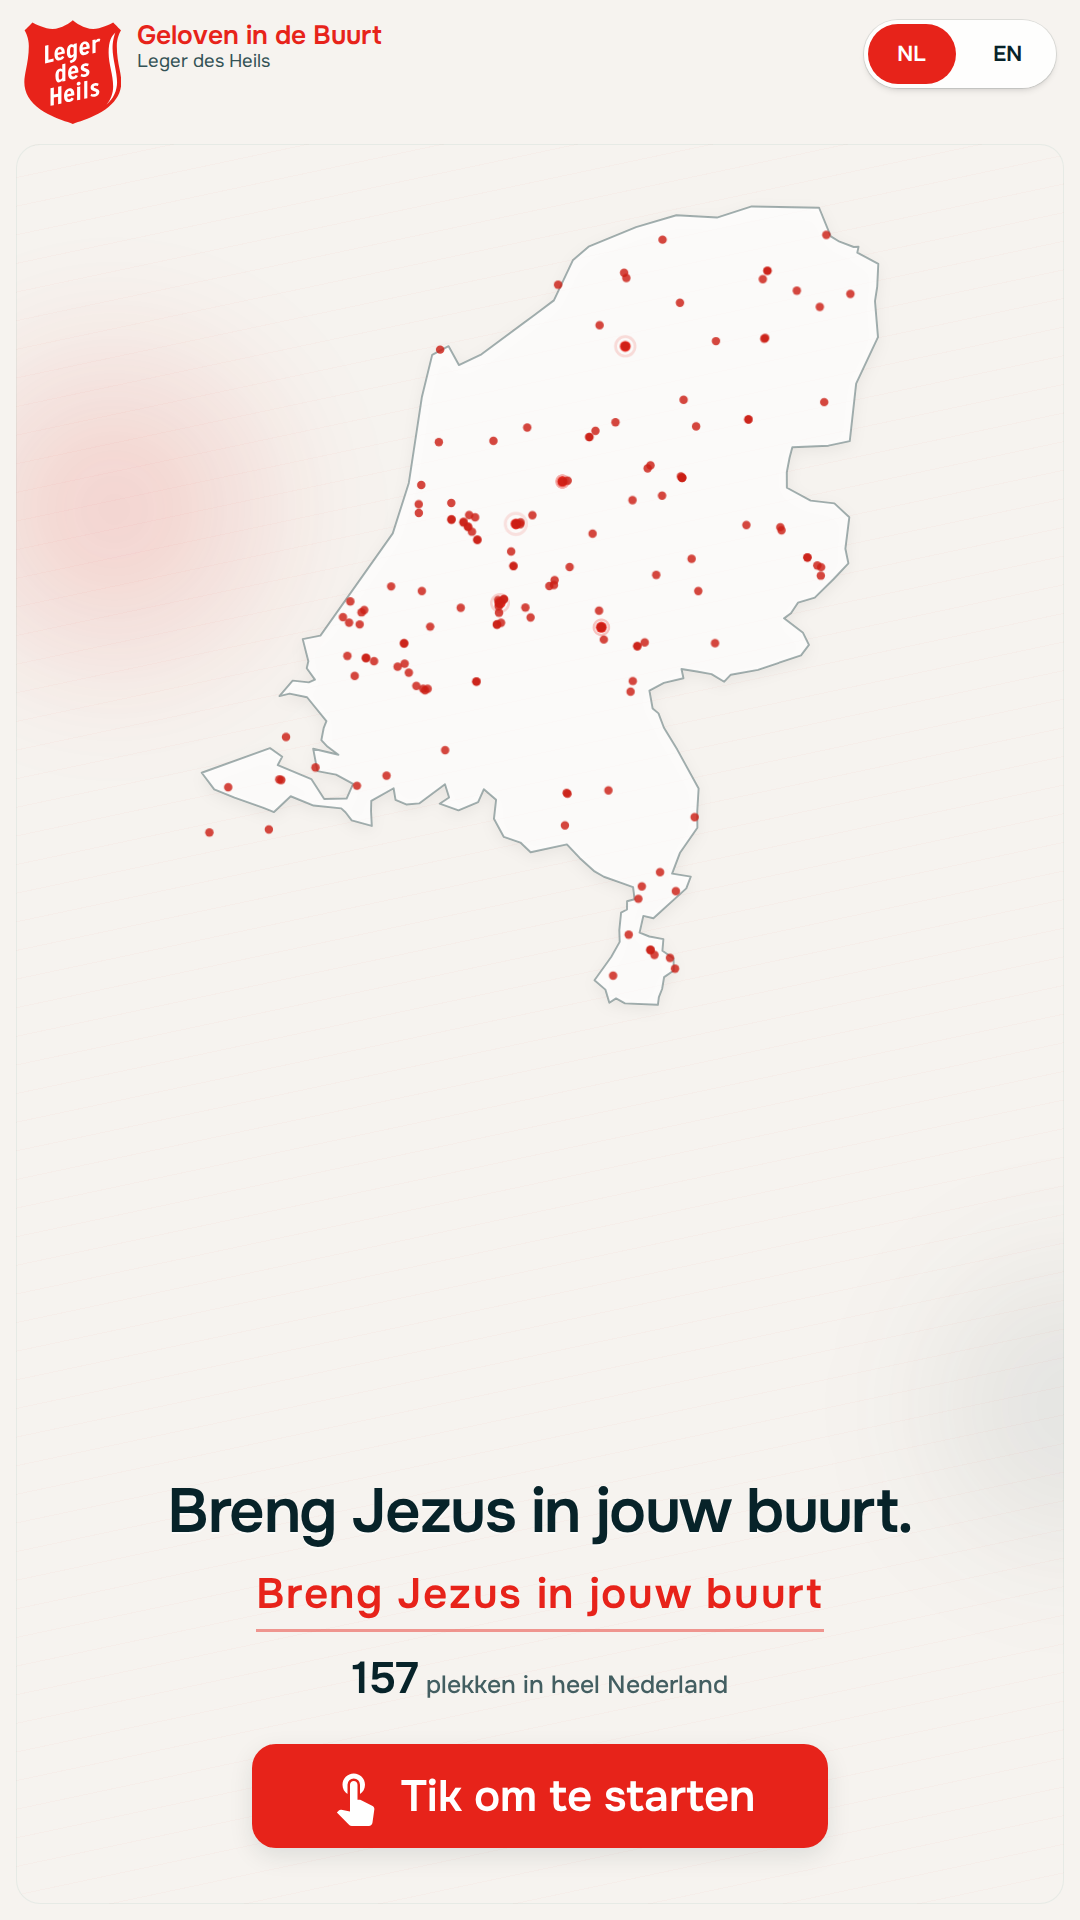
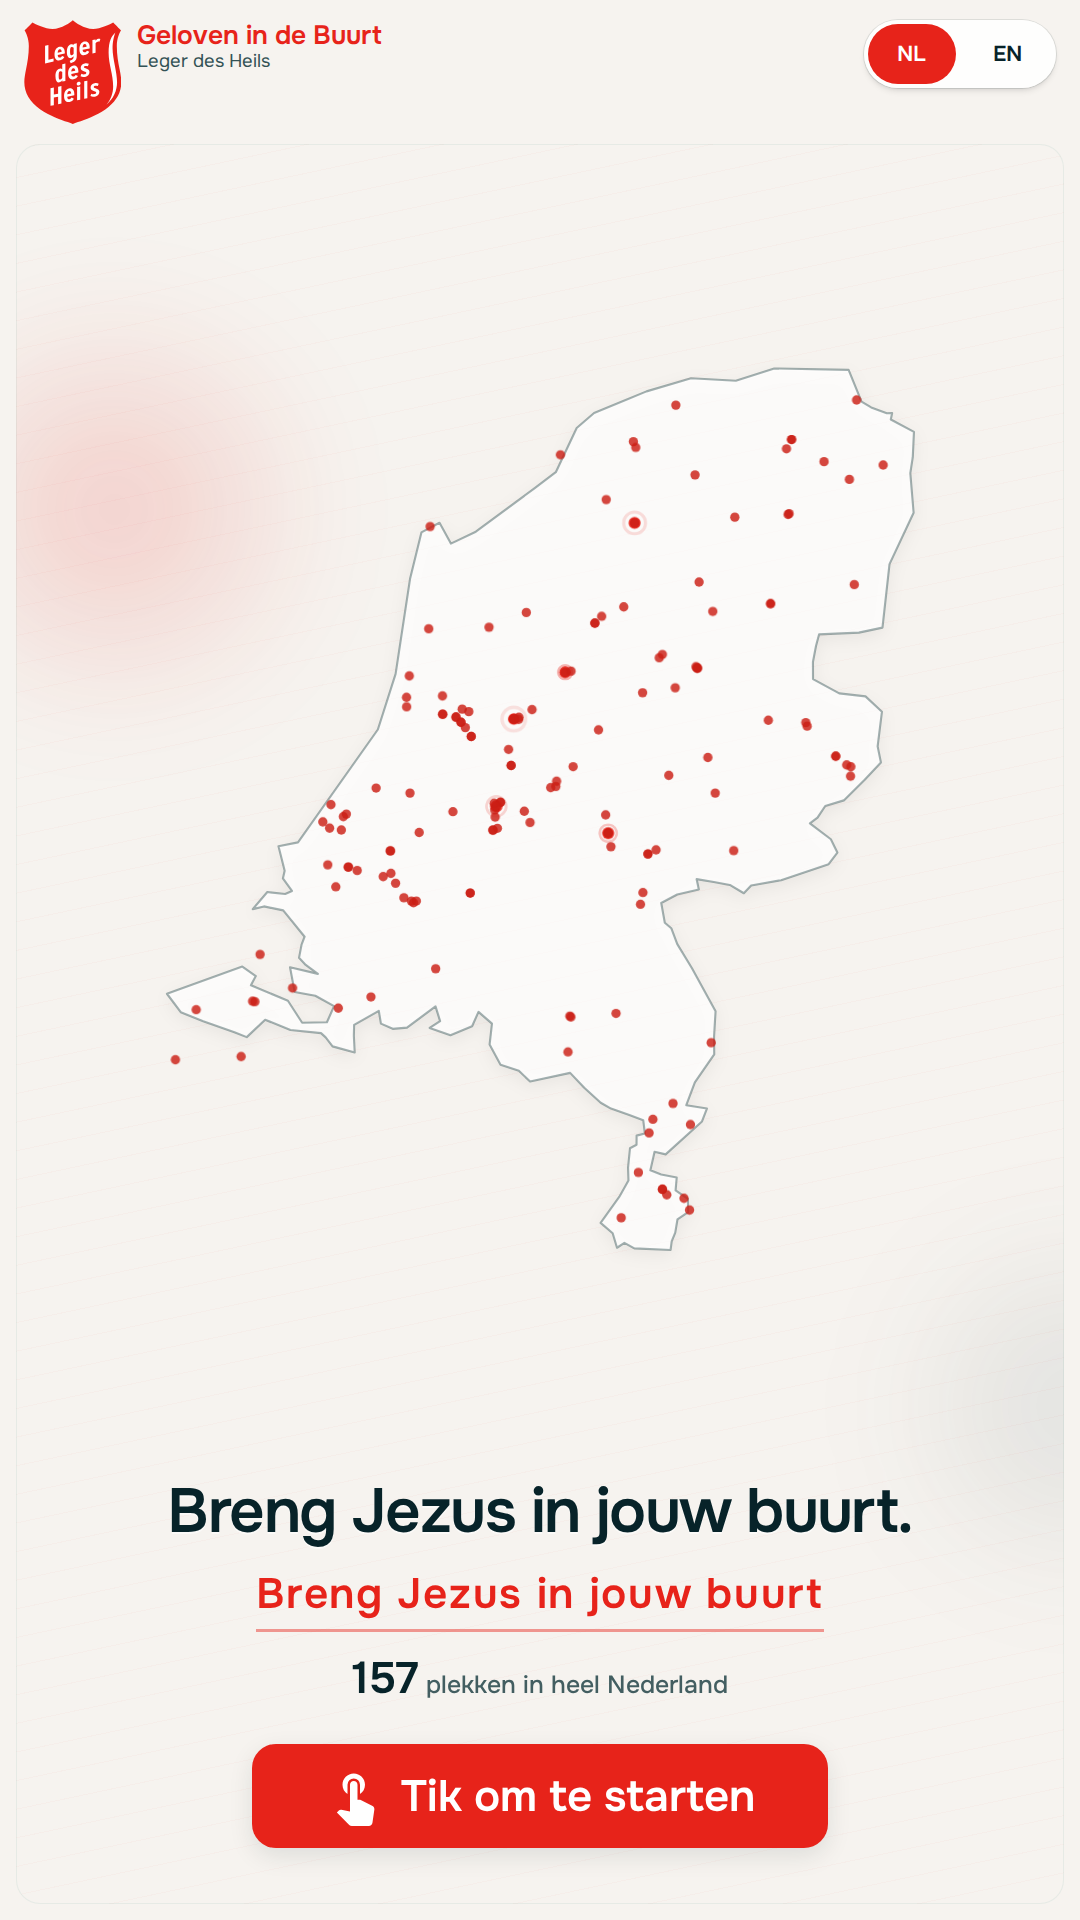
Stand attract: 1fr map row, auto copy, no map-text gap
Let the map grid row absorb remaining height with SVG at 100% meet;
size copy row to content only. Map ~90% card width on 1080×1920.

diff --git a/src/pages/buurt/buurt-kiosk.css b/src/pages/buurt/buurt-kiosk.css
@@ -546,25 +546,39 @@
 @media (min-width: 600px) and (min-height: 900px) {
   .kiosk-attract {
     display: grid;
-    grid-template-rows: minmax(0, 52%) minmax(0, 1fr);
+    grid-template-rows: minmax(0, 1fr) auto;
     grid-template-columns: 1fr;
+    row-gap: 0;
+    align-content: stretch;
   }
 
   .kiosk-attract-map-panel {
     flex: none;
     max-height: none;
     min-height: 0;
+    height: auto;
+    padding: 0.25rem 5% 0;
+    display: flex;
+    flex-direction: column;
+    align-items: stretch;
+  }
+
+  .kiosk-attract-map-svg {
+    flex: 1 1 auto;
+    min-height: 0;
+    width: 100%;
     height: 100%;
-    padding: 0.5rem 1.25rem 0;
+    max-width: 90%;
+    margin-inline: auto;
   }
 
   .kiosk-attract-copy {
     flex: none;
     min-height: 0;
-    height: 100%;
-    justify-content: flex-end;
+    height: auto;
+    justify-content: flex-start;
     gap: clamp(0.75rem, 2vh, 1.5rem);
-    padding: clamp(0.5rem, 1.5vh, 1rem) 1.5rem clamp(2rem, 5vh, 3.5rem);
+    padding: 0.5rem 1.5rem clamp(2rem, 5vh, 3.5rem);
   }
 
   .kiosk-attract-question {
